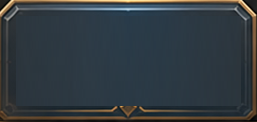
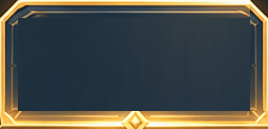
fix(v41): restore source layers and verify mixed composition and mailbox input

diff --git a/Unity/Assets/Eldoria/UI/ValoriaRoyalHUDV2/Runtime/RoyalGoldV41MailboxScreen.cs b/Unity/Assets/Eldoria/UI/ValoriaRoyalHUDV2/Runtime/RoyalGoldV41MailboxScreen.cs
@@ -18,12 +18,15 @@ namespace Eldoria.UI.RoyalGold.V2
     public sealed class RoyalGoldV41MailboxScreen : MonoBehaviour
     {
         public bool IsOpen=>window!=null&&window.gameObject.activeSelf;
+        public Button EntryButton=>entry?entry.GetComponent<Button>():null;
         public int UnreadCount=>gateway?.Snapshot()?.Mailbox?.Unread()??0;
         RoyalHUD hud;ICommandGateway gateway;
         RectTransform window,entry;
         RoyalText entryLabel,title,detail,navLabel,resources;
         readonly List<Image> messageIcons=new List<Image>();
+        readonly List<RoyalText> messageDates=new List<RoyalText>();
         readonly List<RoyalText> messageSubtitles=new List<RoyalText>();
+        readonly List<RoyalText> tabBadges=new List<RoyalText>();
         readonly List<RoyalText> tabLabels=new List<RoyalText>();
         readonly List<RoyalText> messageLabels=new List<RoyalText>();
         readonly List<Button> messageButtons=new List<Button>();
@@ -59,7 +62,7 @@ namespace Eldoria.UI.RoyalGold.V2
         {
             if(hud==null||gateway==null)return;
             if(IsOpen && hud.NarrativeOpen){Close();return;}
-            if(IsOpen && (Mathf.Abs(window.rect.width-lastWidth)>.5f ||
+            if(window!=null && (Mathf.Abs(window.rect.width-lastWidth)>.5f ||
                           Mathf.Abs(window.rect.height-lastHeight)>.5f))Layout();
             if(Time.unscaledTime>=nextRefresh)
             {
@@ -130,6 +133,11 @@ namespace Eldoria.UI.RoyalGold.V2
                 button.GetComponent<RoyalGoldV2FrameGraphic>().enabled=false;
                 var surface=RoyalGoldV41SourceArt.Surface((RectTransform)button.transform,"tab-idle",16);
                 surface.raycastTarget=true;button.targetGraphic=surface;
+                var badge=RoyalGoldV41SourceArt.Surface((RectTransform)button.transform,"unread-dot");
+                badge.name="Unread badge";badge.rectTransform.SetAsLastSibling();
+                var count=Label("Unread count",badge.transform,16,true);count.alignment=TextAnchor.MiddleCenter;
+                count.rectTransform.anchorMin=Vector2.zero;count.rectTransform.anchorMax=Vector2.one;
+                count.rectTransform.offsetMin=count.rectTransform.offsetMax=Vector2.zero;tabBadges.Add(count);
             }
             for(int i=0;i<5;i++)
             {
@@ -141,6 +149,7 @@ namespace Eldoria.UI.RoyalGold.V2
                 surface.raycastTarget=true;button.targetGraphic=surface;
                 label.color=new Color(.08f,.07f,.05f);label.alignment=TextAnchor.MiddleLeft;
                 messageSubtitles.Add(Label("Mensaje resumen "+i,button.transform,17));
+                messageDates.Add(Label("Fecha del mensaje "+i,button.transform,13));
                 var icon=Node("Icono de mensaje "+i,button.transform).gameObject.AddComponent<Image>();
                 icon.raycastTarget=false;icon.preserveAspect=true;messageIcons.Add(icon);
             }
@@ -168,21 +177,23 @@ namespace Eldoria.UI.RoyalGold.V2
             float usable=w-left-right;bool wide=w>h;
             var children=window.GetComponentsInChildren<Button>(true);
             Button Find(string name)=>children.First(b=>b.name==name);
-            Position(entry,left,Mathf.Max(100,h*.16f),Mathf.Min(140,w*.22f),42);
+            float entryWidth=Mathf.Min(140,w*.22f);
+            Position(entry,w-right-entryWidth,h-bottom-(wide?118:165)-54,entryWidth,44);
             Position(title.rectTransform,left+58,top,usable*.4f,45);
             Position(resources.rectTransform,left+usable*.48f,top,usable*.52f,45);
             var back=Find("Volver");Position((RectTransform)back.transform,left,top,48,44);
             back.GetComponentInChildren<RoyalText>().Put("‹");
-            float tabsY=top+60,tabH=wide?44:Mathf.Clamp(h*.09f,46,75),gap=7;
+            float tabsY=top+100,tabH=wide?44:Mathf.Clamp(h*.09f,46,75),gap=7;
             float tabW=(usable-3*gap)/4;
             for(int i=0;i<4;i++)
             {
                 var button=Find("Buzón "+categories[i]);
                 Position((RectTransform)button.transform,left+i*(tabW+gap),tabsY,tabW,tabH);
-                tabLabels[i].fontSize=Mathf.Clamp(Mathf.RoundToInt(tabW*.085f),12,18);
+                tabLabels[i].fontSize=Mathf.Clamp(Mathf.RoundToInt(tabW*.13f),16,25);
+                Position((RectTransform)tabBadges[i].transform.parent,tabW-27,-9,31,31);
                 tabLabels[i].horizontalOverflow=HorizontalWrapMode.Overflow;
             }
-            float bodyY=tabsY+tabH+12,bodyH=h-bodyY-bottom-46;
+            float bodyY=tabsY+tabH+26,bodyH=h-bodyY-bottom-46;
             float rowH=bodyH/5f;
             for(int i=0;i<5;i++)
             {
@@ -190,7 +201,9 @@ namespace Eldoria.UI.RoyalGold.V2
                 float iconSize=Mathf.Min(rowH-23,usable*.16f);
                 Position(messageIcons[i].rectTransform,14,(rowH-7-iconSize)*.5f,iconSize,iconSize);
                 Position(messageLabels[i].rectTransform,iconSize+30,7,usable-iconSize-46,(rowH-12)*.48f);
-                Position(messageSubtitles[i].rectTransform,iconSize+30,rowH*.48f,usable-iconSize-46,rowH*.39f);
+                Position(messageSubtitles[i].rectTransform,iconSize+30,rowH*.48f,usable-iconSize-164,rowH*.39f);
+                Position(messageDates[i].rectTransform,usable-126,rowH*.48f,110,rowH*.39f);
+                messageDates[i].color=new Color(.20f,.18f,.15f);
                 messageLabels[i].fontSize=Mathf.Clamp(Mathf.RoundToInt(rowH*.23f),17,29);
                 messageSubtitles[i].fontSize=Mathf.Clamp(Mathf.RoundToInt(rowH*.18f),14,23);
                 messageSubtitles[i].color=new Color(.20f,.18f,.15f);
@@ -227,11 +240,22 @@ namespace Eldoria.UI.RoyalGold.V2
             if(result.Ok && kind=="MailDelete")selectedId=null;
             Refresh();
         }
+        static string HeroName(string id)=>id=="aldric+lyra"?"Sir Aldric y Lyra":id=="lyra"?"Lyra":id=="aldric"?"Sir Aldric":"—";
+        static string TargetName(string id)
+        {
+            switch(id){case "corrupt-scout":return "Acechador Corrupto";case "engendro-valoria":return "Engendro";
+                case "hunt-wolf":return "Lobo";case "hunt-boar":return "Jabalí";case "ash-stalker-valoria":return "Acechador de Ceniza";
+                case "fissure-valoria":return "Fisura";default:return (id??"").StartsWith("vigilant:")?"Vigilante":"el enemigo";}
+        }
         public void Refresh()
         {
             if(hud==null||gateway==null)return;
             if(window==null)Ensure();
             var s=gateway.Snapshot();var mail=s.Mailbox;
+            entry.gameObject.SetActive(!IsOpen&&!hud.NarrativeOpen&&
+                !(hud.Modal!=null&&hud.Modal.gameObject.activeSelf)&&
+                !(hud.GetComponent<RoyalGoldV3ManagementScreens>()?.IsOpen??false)&&
+                string.IsNullOrEmpty(hud.SelectedBuildingId));
             resources.Put("Madera "+s.Resources.Wood+"  ·  Piedra "+s.Resources.Stone+"  ·  Comida "+s.Resources.Food);
             if(entryLabel!=null)entryLabel.Put("CORREO"+(mail?.Unread()>0?" ("+mail.Unread()+")":""));
             if(!IsOpen)return;
@@ -240,8 +264,11 @@ namespace Eldoria.UI.RoyalGold.V2
                 string key=t.transform.parent.name.Replace("Buzón ","");
                 t.color=key==category?Gold:Ivory;
                 var surface=t.transform.parent.GetComponentInChildren<Image>();
-                if(surface!=null)surface.color=key==category?new Color(1.25f,1.15f,.90f):Color.white;
-                t.Put(key.ToUpperInvariant()+((mail?.Unread(key)??0)>0?" • "+mail.Unread(key):""));
+                if(surface!=null){surface.sprite=RoyalGoldV41SourceArt.Get(key==category?"tab-active":"tab-idle",18);surface.color=Color.white;}
+                int unread=mail?.Unread(key)??0,index=Array.IndexOf(categories,key);
+                tabBadges[index].transform.parent.gameObject.SetActive(unread>0);
+                tabBadges[index].Put(unread.ToString());
+                t.Put(char.ToUpperInvariant(key[0])+key.Substring(1));
             }
             var list=mail?.List(category,offset,5)??new List<EldoriaV41Message>();
             for(int i=0;i<5;i++)
@@ -253,7 +280,9 @@ namespace Eldoria.UI.RoyalGold.V2
                     var msg=list[i];
                     messageLabels[i].color=new Color(.08f,.07f,.05f);
                     messageLabels[i].Put((msg.Read?"":"● ")+msg.Title);
-                    messageSubtitles[i].Put(msg.Subtitle);
+                    messageSubtitles[i].Put(msg.Battle==null?msg.Subtitle:
+                        (msg.Battle.Won?"Victoria contra ":"Derrota ante ")+TargetName(msg.Battle.TargetId));
+                    messageDates[i].Put(msg.OccurredAtUtcTicks>0?new DateTime(msg.OccurredAtUtcTicks,DateTimeKind.Utc).ToString("dd/MM HH:mm"):"");
                     string icon=msg.Category=="recompensas"?"mail-reward":msg.Category=="narrativa"?"mail-narrative":
                         msg.Category=="sistema"?"mail-system":msg.Type=="battle"?"mail-battle":"mail-march";
                     messageIcons[i].sprite=RoyalGoldV41SourceArt.Get(icon);
@@ -272,9 +301,10 @@ namespace Eldoria.UI.RoyalGold.V2
             var battle=selected.Battle;
             detail.Put(selected.Title+"\n"+selected.Subtitle+
                 (battle==null?"":"\n\n"+(battle.Won?"VICTORIA":"DERROTA")+
-                "\nHéroe: "+battle.HeroId+" · Tropas: "+battle.Troops+
+                "\nHéroe: "+HeroName(battle.HeroId)+" · Tropas: "+battle.Troops+
                 "\nRondas: "+battle.Rounds+" · Poder: "+battle.PlayerPower+
                 "\nVida restante: "+battle.RemainingHealth+
+                "\nBotín: "+battle.RewardWood+" madera · "+battle.RewardStone+" piedra · "+battle.RewardFood+" comida"+
                 "\n\n"+battle.Reason)+
                 (string.IsNullOrEmpty(selected.RewardReceiptId)?"":"\n\nRecompensa registrada."));
         }

diff --git a/Unity/Assets/Eldoria/Scripts/Editor/EldoriaV41NativeCapture.cs b/Unity/Assets/Eldoria/Scripts/Editor/EldoriaV41NativeCapture.cs
@@ -12,6 +12,7 @@ using UnityEditor;
 using UnityEditor.SceneManagement;
 using UnityEngine;
 using UnityEngine.UI;
+using UnityEngine.EventSystems;
 using Object=UnityEngine.Object;
 
 namespace Eldoria.Editor
@@ -100,16 +101,36 @@ namespace Eldoria.Editor
             Need(host.City.Gateway.Snapshot().PendingRecruitArchers>0,"Actual training reserves recruits");
             screen.Open(RoyalGoldV3ManagementScreens.Destination.March);yield return null;
             Need(!screen.VisibleRoot.GetComponentsInChildren<Text>().Any(t=>t.text=="APOYO · SIR ALDRIC"),"Empty saved slots never display invented Aldric companions");
+            var controls=screen.VisibleRoot.GetComponentsInChildren<Button>();
+            controls.First(b=>b.name=="Hero slot 1").onClick.Invoke();
+            controls.First(b=>b.name=="Edit march by percent").onClick.Invoke();
+            screen.VisibleRoot.GetComponentInChildren<Slider>().value=50;
+            Need(screen.SelectedQuantity==60,"Real percent slider keeps 120 troops and assigns 50 percent to T1");
             Shot(host,"march-reference-ratio",941,1672);Shot(host,"march-landscape",1600,900);
             Need(screen.VisibleAction.interactable,"Actual march composer actionable");
             screen.VisibleAction.onClick.Invoke();
-            Need(host.City.Gateway.Snapshot().MarchConfigured,"Composition persisted by real gateway");
+            var composed=host.City.Gateway.Snapshot();
+            Need(composed.MarchConfigured&&composed.PreparedTroops.ArcherT1==60&&composed.PreparedTroops.ArcherT2==60,
+                "Mixed-tier percentage composition persisted by real gateway");
+            Need(composed.PreparedHeroIds[0]=="aldric"&&composed.PreparedHeroIds[1]=="lyra"&&string.IsNullOrEmpty(composed.PreparedHeroIds[2]),
+                "Actual support selection persists only recruited heroes");
             screen.Close();yield return null;
             var gateway=host.City.Gateway;var snap=gateway.Snapshot();
             Need(gateway.Execute(new Eldoria.Application.GameCommand("v41-native-battle",snap.PlayerId,"Fight","corrupt-scout",snap.Revision)).Ok,"Real battle departure");
             ((ValoriaReferenceCleanGameplay.TestClock)host.City.Clock).Step(30);gateway.Advance();yield return null;
             Need(gateway.Snapshot().Mailbox.List("informes").Count==1,"Real result creates one report");
-            var mailbox=host.Hud.GetComponent<RoyalGoldV41MailboxScreen>();mailbox.Open();yield return null;
+            var mailbox=host.Hud.GetComponent<RoyalGoldV41MailboxScreen>();mailbox.Refresh();yield return null;
+            Need(mailbox.EntryButton&&mailbox.EntryButton.gameObject.activeInHierarchy,"Mailbox shortcut is visible in the actual HUD");
+            Need(EventSystem.current!=null,"Canonical EventSystem handles pointer input");
+            var entry=(RectTransform)mailbox.EntryButton.transform;
+            var canvas=host.Hud.GetComponent<Canvas>();
+            var point=RectTransformUtility.WorldToScreenPoint(canvas.renderMode==RenderMode.ScreenSpaceOverlay?null:canvas.worldCamera,entry.TransformPoint(entry.rect.center));
+            var hits=new System.Collections.Generic.List<RaycastResult>();
+            EventSystem.current.RaycastAll(new PointerEventData(EventSystem.current){position=point},hits);
+            Need(hits.Count>0&&hits[0].gameObject.GetComponentInParent<Button>()==mailbox.EntryButton,"Mailbox entry receives the top actual pointer raycast");
+            Shot(host,"mailbox-entry-city",900,1600);
+            mailbox.EntryButton.onClick.Invoke();yield return null;
+            Need(mailbox.IsOpen,"Actual HUD shortcut opens mailbox");
             Shot(host,"mailbox-reference-ratio",1169,1345);Shot(host,"mailbox-phone",900,1600);Shot(host,"mailbox-landscape",1600,900);
             var row=host.Hud.GetComponentsInChildren<Button>().First(x=>x.name=="Buzón / mensaje 0");row.onClick.Invoke();yield return null;
             Need(gateway.Snapshot().Mailbox.Unread("informes")==0,"Opening actual message marks it read");

diff --git a/Unity/Assets/Eldoria/UI/ValoriaRoyalHUDV2/Runtime/RoyalGoldV3ManagementScreens.cs b/Unity/Assets/Eldoria/UI/ValoriaRoyalHUDV2/Runtime/RoyalGoldV3ManagementScreens.cs
@@ -399,7 +399,7 @@ namespace Eldoria.UI.RoyalGold.V2
             approvedArcher=RoyalGoldV41SourceArt.Surface(left,"training-archer");
             approvedArcher.preserveAspect=true;approvedArcher.rectTransform.SetAsLastSibling();
             approvedTroopRow=RoyalGoldV41SourceArt.Surface(left,"archer-row");
-            approvedTroopRow.preserveAspect=true;
+            approvedTroopRow.preserveAspect=true;approvedTroopRow.rectTransform.SetAsLastSibling();
             for(int i=0;i<3;i++)
             {
                 approvedHeroes[i]=RoyalGoldV41SourceArt.Surface((RectTransform)heroSlotButtons[i].transform,"aldric-face");
@@ -424,12 +424,17 @@ namespace Eldoria.UI.RoyalGold.V2
             if(slot==2)return; // A third combat hero has not been unlocked in the current story.
             if(slot==0)
             {
-                heroSlots[0]=hasLyra&&heroSlots[0]=="aldric"?"lyra":"aldric";
+                string candidate=hasLyra&&heroSlots[0]=="aldric"?"lyra":"aldric";
+                if(!MarchCapacityRules.HeroAvailable(s,candidate)){notice="El héroe está en otra marcha.";Refresh();return;}
+                heroSlots[0]=candidate;
                 if(heroSlots[1]==heroSlots[0])heroSlots[1]=null;
             }
             else if(hasLyra)
-                heroSlots[1]=string.IsNullOrEmpty(heroSlots[1])?
-                    (heroSlots[0]=="aldric"?"lyra":"aldric"):null;
+            {
+                string candidate=string.IsNullOrEmpty(heroSlots[1])?(heroSlots[0]=="aldric"?"lyra":"aldric"):null;
+                if(!MarchCapacityRules.HeroAvailable(s,candidate)){notice="El héroe está en otra marcha.";Refresh();return;}
+                heroSlots[1]=candidate;
+            }
             selectedHero=!string.IsNullOrEmpty(heroSlots[1])?"aldric+lyra":heroSlots[0];
             Refresh();
         }
@@ -603,6 +608,7 @@ namespace Eldoria.UI.RoyalGold.V2
                     "\nYA PREPARADOS  "+(s.MarchConfigured?s.PreparedTroops.Total:0));
                 bool allowed=MarchCapacityRules.CanStart(s,utcTicks()) && troops.Total>0 &&
                     MarchCapacityRules.Fits(troops,s.Available,capacity);
+                foreach(var hero in heroSlots)if(!MarchCapacityRules.HeroAvailable(s,hero))allowed=false;
                 actionLabel.Put(allowed?"CONFIRMAR COMPOSICIÓN":"MARCHA NO DISPONIBLE");
                 action.interactable=allowed && Time.unscaledTime>=submitAfter;
             }
@@ -789,7 +795,10 @@ namespace Eldoria.UI.RoyalGold.V2
                 for(int i=0;i<3;i++)
                 {
                     Place((RectTransform)heroSlotButtons[i].transform,14+i*(cardW+6),cardsY,cardW,cardsH);
-                    Place(approvedHeroes[i].rectTransform,4,4,cardW-8,cardsH*.72f);
+                    float portraitH=cardsH*.72f;
+                    float ratio=heroSlots[i]=="aldric"?138f/234f:244f/250f;
+                    float portraitW=Mathf.Min(cardW-8,portraitH*ratio);
+                    Place(approvedHeroes[i].rectTransform,(cardW-portraitW)*.5f,4,portraitW,portraitH);
                     Place(heroSlotLabels[i].rectTransform,4,cardsH*.74f,cardW-8,cardsH*.24f);
                     heroSlotLabels[i].fontSize=wide?14:13;
                 }

diff --git a/tools/eldoria-v41/extract-approved-ui.py b/tools/eldoria-v41/extract-approved-ui.py
@@ -16,6 +16,12 @@ def main():
     images={k:Image.open(v['file']).convert('RGBA') for k,v in refs.items()}
     records=[]
     def save(name,im,screen,regions):
+        if name=='unread-dot':
+            # Clip the original circular icon; its surrounding parchment is not part of it.
+            for y in range(im.height):
+                for x in range(im.width):
+                    if (x-15)**2+(y-15)**2>15**2:
+                        r,g,b,_=im.getpixel((x,y));im.putpixel((x,y),(r,g,b,0))
         path=args.out/(name+'.png');im.save(path)
         records.append({'name':name,'source_sha256':refs[screen]['sha256'],'regions_xyxy':regions,
                         'sha256':hashlib.sha256(path.read_bytes()).hexdigest(),'method':'source_pixels_only'})
@@ -23,6 +29,7 @@ def main():
         Path(str(path)+'.meta').write_text('fileFormatVersion: 2\nguid: '+guid+'\nTextureImporter:\n  serializedVersion: 13\n  mipmaps:\n    enableMipMap: 0\n  isReadable: 0\n  npotScale: 0\n  textureType: 0\n  textureShape: 1\n  maxTextureSize: 2048\n  textureSettings:\n    serializedVersion: 2\n    filterMode: 1\n    aniso: 1\n    wrapU: 1\n    wrapV: 1\n  alphaIsTransparency: 1\n  textureCompression: 0\n')
     crops={
       'mail-battle':('mailbox',(109,407,237,513)),
+      'unread-dot':('mailbox',(82,380,113,411)),
       'mail-march':('mailbox',(109,564,237,693)),
       'mail-reward':('mailbox',(109,746,237,876)),
       'mail-system':('mailbox',(109,929,237,1060)),
@@ -43,9 +50,15 @@ def main():
         im=images[screen].crop(center).resize((w,h),Image.Resampling.BILINEAR)
         for region in [(0,0,w,b),(0,h-b,w,h),(0,b,b,h-b),(w-b,b,w,h-b)]:
             im.paste(original.crop(region),region[:2])
+        if name=='tab-active':
+            # Original left/top edge is free of the baked unread counter.
+            # Reuse it symmetrically instead of importing the example number 3.
+            im.paste(original.crop((b,0,w//2,b)).resize((w-2*b,b)),(b,0))
+            im.paste(original.crop((0,0,b,b)).transpose(Image.Transpose.FLIP_LEFT_RIGHT),(w-b,0))
+            im.paste(original.crop((0,b,b,h-b)).transpose(Image.Transpose.FLIP_LEFT_RIGHT),(w-b,b))
         save(name,im,screen,[box,center])
     panel('mail-card','mailbox',(63,544,1125,710),(800,580,950,620),20)
-    panel('tab-active','mailbox',(337,204,594,326),(380,225,550,240),16)
+    panel('tab-active','mailbox',(54,201,322,330),(80,223,230,240),18)
     panel('tab-idle','mailbox',(337,204,594,326),(380,225,550,240),16)
     panel('blue-panel','march',(363,208,612,594),(400,525,570,570),14)
     panel('gold-button','march',(219,1544,723,1626),(249,1560,671,1570),14)
